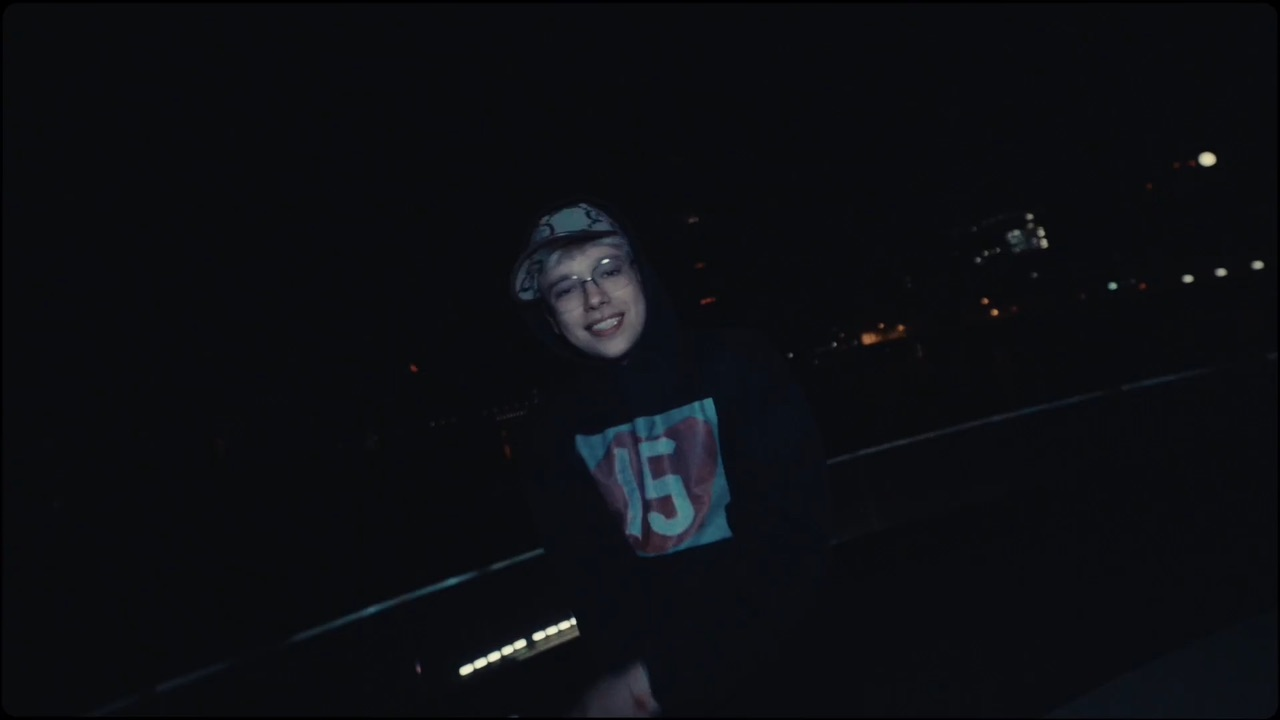
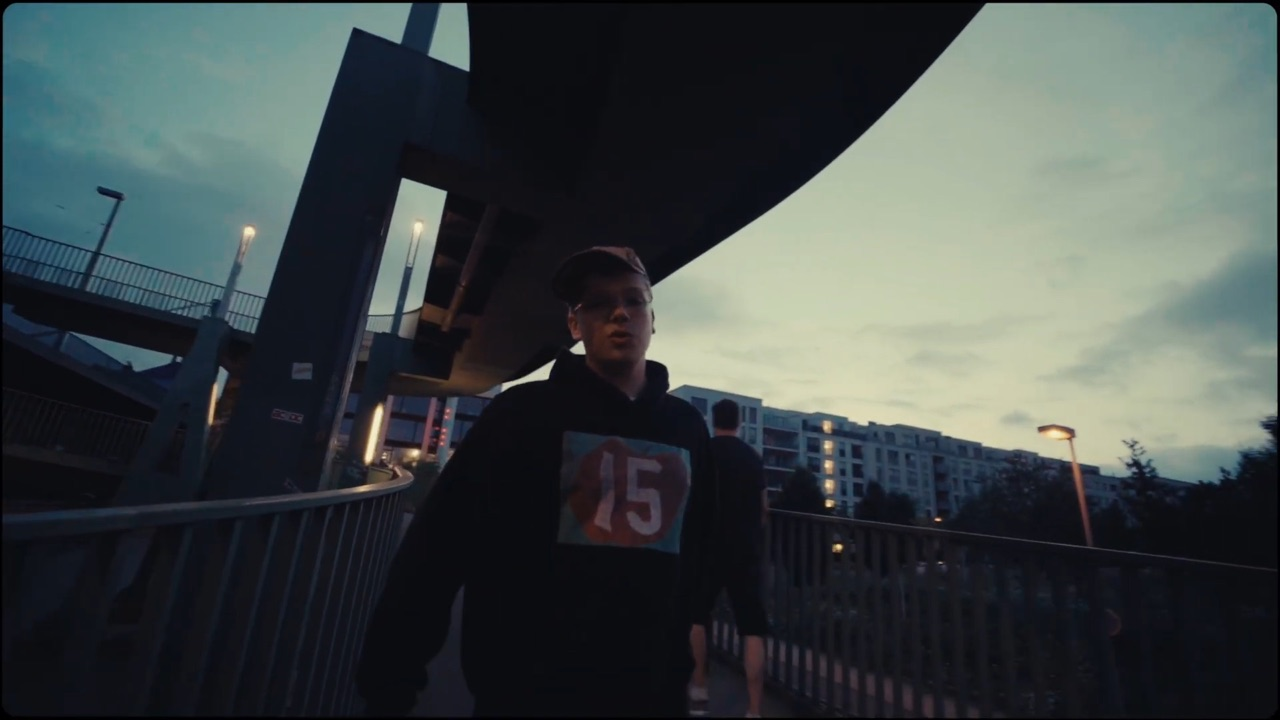
Platzhalter Velocity und Event entfernt, neues Vorschaubild für Libanesisch

diff --git a/index.html b/index.html
@@ -244,7 +244,7 @@
                 <!-- Video: FIFTEEN – Libanesisch (Musikvideo, selbst gehostet in videos/) -->
                 <article class="project-item group cursor-pointer" data-category="video" onclick="openVideoPlayer('FIFTEEN — Libanesisch', 'Musikvideo &bull; prod. Chanson', 'videos/fifteen-libanesisch.mp4')">
                     <div class="relative aspect-[16/10] overflow-hidden rounded-xl bg-dark-surface border border-dark-border project-card">
-                        <img src="videos/fifteen-libanesisch.jpg"
+                        <img src="videos/fifteen-libanesisch.jpg?v=2"
                              alt="FIFTEEN – Libanesisch Musikvideo"
                              class="w-full h-full object-cover group-hover:scale-105 transition-transform duration-700">
                         <div class="absolute inset-0 bg-gradient-to-t from-black/80 via-transparent to-transparent opacity-80 group-hover:opacity-60 transition-opacity"></div>
@@ -275,43 +275,6 @@
                     </div>
                     <div class="pt-4 flex items-center justify-between">
                         <h3 class="text-xl font-bold uppercase tracking-wide text-white group-hover:text-accent-gold transition-colors">Standesamt Julia &amp; Tim</h3>
-                        <span class="text-xs font-mono text-zinc-400">Düsseldorf &amp; NRW</span>
-                    </div>
-                </article>
-
-                <!-- Video 2: Commercial Velocity -->
-                <article class="project-item group cursor-pointer" data-category="video" onclick="openVideoPlayer('Velocity Horizon', 'Commercial &amp; Automotive Film', 'https://images.unsplash.com/photo-1503376780353-7e6692767b70?auto=format&fit=crop&w=1200&q=80')">
-                    <div class="relative aspect-[16/10] overflow-hidden rounded-xl bg-dark-surface border border-dark-border project-card">
-                        <img src="https://images.unsplash.com/photo-1503376780353-7e6692767b70?auto=format&fit=crop&w=1200&q=80" 
-                             alt="Commercial Film" 
-                             class="w-full h-full object-cover group-hover:scale-105 transition-transform duration-700">
-                        <div class="absolute inset-0 bg-gradient-to-t from-black/80 via-transparent to-transparent opacity-80 group-hover:opacity-60 transition-opacity"></div>
-                        <div class="absolute bottom-5 right-5 w-12 h-12 rounded-full bg-white/90 text-black flex items-center justify-center backdrop-blur-md group-hover:scale-110 transition-transform">
-                            <svg class="w-5 h-5 fill-current ml-0.5" viewBox="0 0 24 24"><path d="M8 5v14l11-7z"/></svg>
-                        </div>
-                        <span class="absolute top-4 left-4 text-[10px] font-mono uppercase tracking-widest px-3 py-1 rounded bg-black/60 border border-white/10 text-white backdrop-blur-md">
-                            Video
-                        </span>
-                    </div>
-                    <div class="pt-4 flex items-center justify-between">
-                        <h3 class="text-xl font-bold uppercase tracking-wide text-white group-hover:text-accent-gold transition-colors">Commercial &bull; Velocity</h3>
-                        <span class="text-xs font-mono text-zinc-400">2026</span>
-                    </div>
-                </article>
-
-                <!-- Foto 2: Event -->
-                <article class="project-item group cursor-pointer" data-category="foto" onclick="openPhotoViewer('Event', 'Eventbegleitung', 'https://images.unsplash.com/photo-1492684223066-81342ee5ff30?auto=format&fit=crop&w=1200&q=80')">
-                    <div class="relative aspect-[16/10] overflow-hidden rounded-xl bg-dark-surface border border-dark-border project-card">
-                        <img src="https://images.unsplash.com/photo-1492684223066-81342ee5ff30?auto=format&fit=crop&w=1200&q=80" 
-                             alt="Eventfotografie Düsseldorf" 
-                             class="w-full h-full object-cover group-hover:scale-105 transition-transform duration-700">
-                        <div class="absolute inset-0 bg-gradient-to-t from-black/80 via-transparent to-transparent opacity-80 group-hover:opacity-60 transition-opacity"></div>
-                        <span class="absolute top-4 left-4 text-[10px] font-mono uppercase tracking-widest px-3 py-1 rounded bg-black/60 border border-white/10 text-white backdrop-blur-md">
-                            Foto
-                        </span>
-                    </div>
-                    <div class="pt-4 flex items-center justify-between">
-                        <h3 class="text-xl font-bold uppercase tracking-wide text-white group-hover:text-accent-gold transition-colors">Event</h3>
                         <span class="text-xs font-mono text-zinc-400">Düsseldorf &amp; NRW</span>
                     </div>
                 </article>
